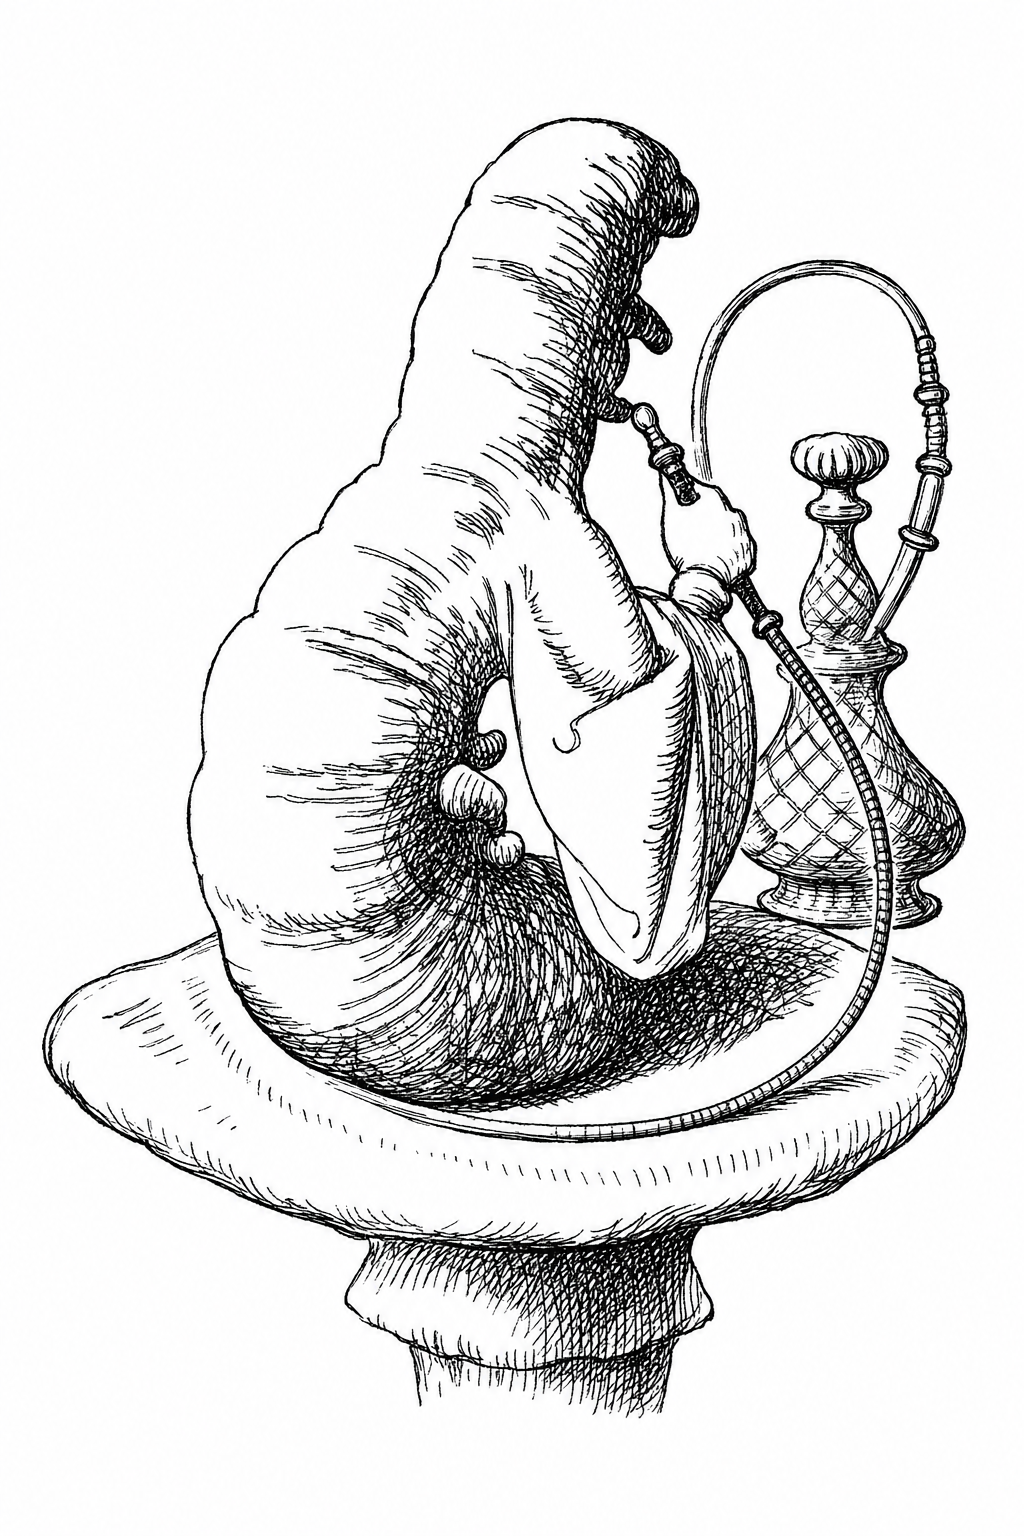
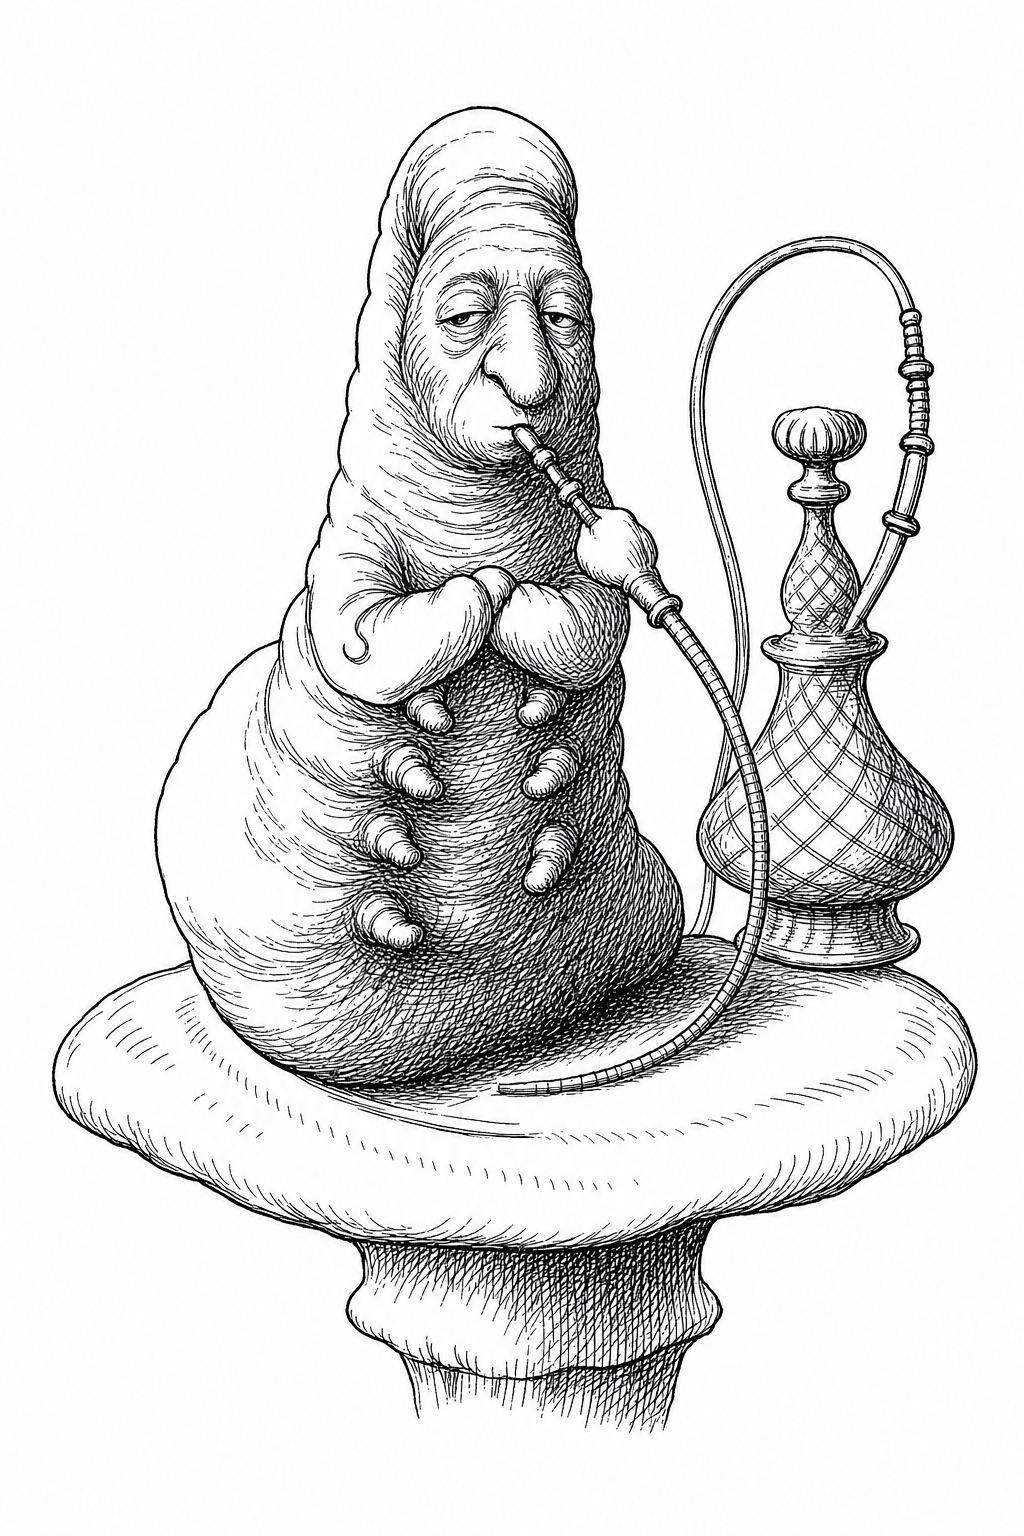
Caterpillar regenerated turned toward us (first version kept); handoff: rules for generating art directly
Claude-Session: https://claude.ai/code/session_01XCrTmcLSNBEvemRhk5i2MQ

diff --git a/docs/HANDOFF.md b/docs/HANDOFF.md
@@ -43,6 +43,12 @@ Updated: 2026-10-11 (end of session 2: Chapters VIII–XII staged, the whole boo
 6. Check it: `node tools/chapter_shots.mjs http://localhost:5173/ <outdir> N [t1,t2,…]`, contact-sheet the images, **look at them**, fix, repeat. Add a few moments to `tools/smoke.mjs`; run it (all chapters, ~15 min, run in the background).
 7. Write `docs/CHAPTER_NN_ROUGHCUT.md`, update this handoff's table, commit, push, republish the web link.
 
+## Generating art directly (owner, 2026-10-13)
+- `python3 tools/gen_image.py OUT "PROMPT" --ref FILE …`: OpenAI image API, always **gpt-image-2 or newer**, streamed (the proxy drops requests silent for ~30 s), the style block from ART_PROMPTS.md put in front. About 6,000 image tokens a high-quality picture.
+- **References are cropped to the target only** (no other figures in the picture: cleaner results, and a plate with child Alice beside a smoking figure tripped the safety filter).
+- **Characters already in the project are referenced by their existing drawings** (e.g. the model sheet and walk pair for Alice, `rabbit_sheet` for the Rabbit, `caterpillar_sit` for the Caterpillar), with the Tenniel plate crop, so every new pose matches.
+- Show the owner each new character's first picture before putting it in the game.
+
 ## When art arrives
 - **Card people** (owner, 2026-10-11): numbered cards arrive as bodies with a plain white face; print each card's pips on them in code (reuse `PIP_LAYOUT` and `suitColour` in props8.js, mapped onto the drawn face). Court cards and the court's hearts arrive with solid black suit signs: recolour the solid black heart and diamond shapes red when processing (a new step for `tools/whitecut.py` or a small tool), leaving clubs and spades black.
 - **'Direct' Tenniel figures** are being generated as AI from the plates (owner, 2026-10-11); scans are an optional upgrade.
